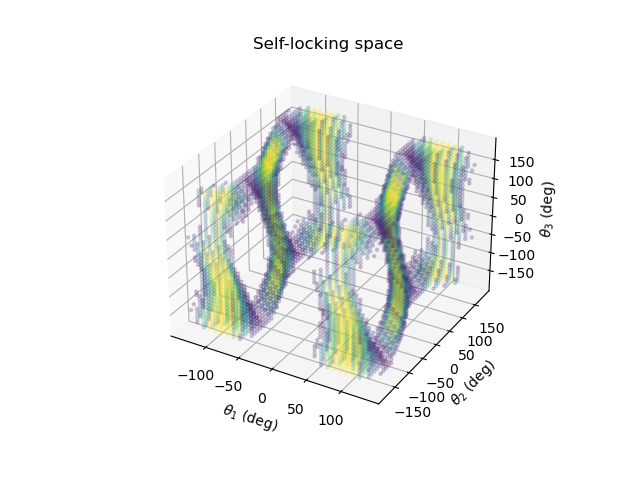
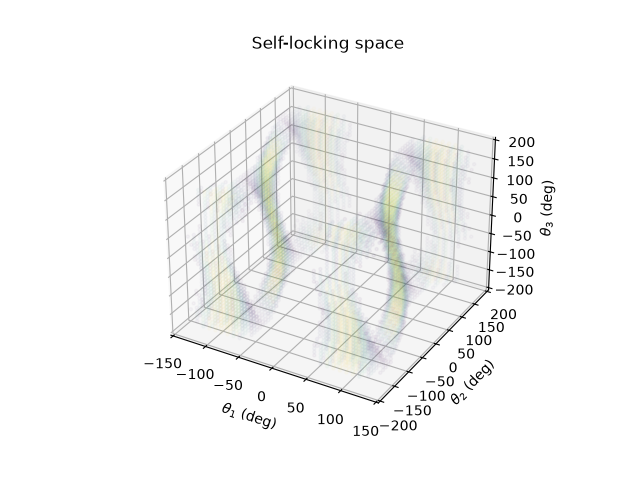
[task1] add task1 readme

diff --git a/README.md b/README.md
@@ -15,3 +15,30 @@
 1. 输入三个关节角度输出关节力矩
 2. 画出固定某两个电机旋转另一个电机时三个关节力矩的图像, 分别画出考虑摩擦力和不考虑摩擦力的情况
 3. 输入最大静摩擦力, 画出自锁的三维图, 图中颜色表示摩擦力的冗余程度(我想表达的意思是目前的摩擦力距离最大静摩擦力还剩多少)
+结果复现:
+
+``` bash
+python -m venv .venv
+. .venv/bin/activate
+pip install -r requirements.txt
+python task1.py
+```
+
+### 模型选择与方法说明
+模型是三自由度机械臂, 末段负载, 考虑关节重力和关节摩擦
+方法: 
+使用虚功原理, 把笛卡尔坐标系下的力转换到关节"坐标系"下的力矩
+三个关节重力, 一个末端负载, 构造四个Jacobian矩阵实现变换
+
+### 结果与分析
+固定12电机角度, 三个关节力矩
+![力矩图](./assets/torque-with-motor12-fixed.png)
+固定13电机角度, 三个关节力矩
+![力矩图](./assets/torque-with-motor13-fixed.png)
+固定23电机角度, 三个关节力矩
+![力矩图](./assets/torque-with-motor23-fixed.png)
+以上说明转动任一关节, 都会对三个电机同时产生影响
+![自锁空间图](./assets/self-lock.png)
+以上是能发生自锁情况时三个关节角度的空间图
+黄色处摩擦力冗余较大, 紫色处摩擦力冗余小. 无颜色处无法实现自锁
+
